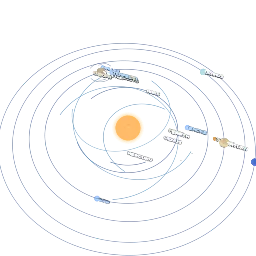
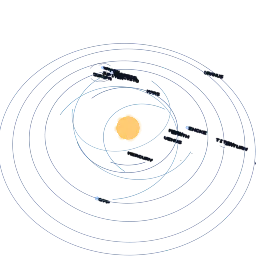
Space r4: sharper (the owner's "Just sharper" on all six clips): denser, finer splats
Claude-Session: https://claude.ai/code/session_01CZZxwLwMDQVfDNLU42cnhN

diff --git a/src/packs/space-r4.js b/src/packs/space-r4.js
@@ -396,7 +396,7 @@ const recipe = {
     // ---- The Sun ----
     const sunR = isTrue ? SUN_RADIUS_KM / AU_KM : READ_SUN;
     const sunPts = [];
-    const ns = 2600;
+    const ns = 9000;
     const g = Math.PI * (3 - Math.sqrt(5));
     for (let i = 0; i < ns; i++) {
       const y = 1 - ((i + 0.5) / ns) * 2;
@@ -404,12 +404,13 @@ const recipe = {
       sunPts.push([Math.cos(g * i) * r, y, Math.sin(g * i) * r]);
     }
     cloud(sunPts, {}, (u, i) => {
-      const f = 0.85 + 0.15 * Math.sin(i * 12.9898);
-      return { p: mul(u, sunR), scales: [sunR * 0.09, sunR * 0.09, sunR * 0.09], color: [1, 0.86 * f, 0.5 * f], opacity: 0.97, params: [0, 0] }; // prettier-ignore
+      const h = Math.sin(i * 12.9898) * 43758.5453;
+      const f = 0.86 + 0.14 * (h - Math.floor(h)); // (granulation, a random brightness)
+      return { p: mul(u, sunR), scales: [sunR * 0.05, sunR * 0.05, sunR * 0.05], color: [1, 0.86 * f, 0.5 * f], opacity: 0.97, params: [0, 0] }; // prettier-ignore
     });
-    const glow = sunPts.filter((_, i) => i % 8 === 0);
+    const glow = sunPts.filter((_, i) => i % 24 === 0);
     cloud(glow, {}, (u) => {
-      const s = sunR * (isTrue ? 4 : 0.3);
+      const s = sunR * (isTrue ? 4 : 0.2);
       return { p: mul(u, sunR * 1.02), scales: [s, s, s], color: [1, 0.72, 0.3], opacity: 0.035, params: [0, 2] }; // prettier-ignore
     });
 
@@ -455,12 +456,12 @@ const recipe = {
       const e1 = unit(cross(pole, Math.abs(pole[0]) < 0.9 ? [1, 0, 0] : [0, 0, 1]));
       const e2 = cross(pole, e1);
       const big = b.kind === 0 && b.km > 20000;
-      const n = b.kind === 0 ? (big ? 1400 : 800) : 260;
+      const n = b.kind === 0 ? (big ? 6000 : 3500) : 1200;
       const pts = ballPts(n);
       const mapId = b.kind === 0 ? look.map : b.moon.map;
       const img = mapId ? DATA.maps.get(mapId) : null;
       const flat = b.kind === 1 && !img ? hex(MOON_COLORS[b.id] || "#a8a29a") : null;
-      const sz = b.r * (3.4 / Math.sqrt(n));
+      const sz = b.r * (2.9 / Math.sqrt(n));
       cloud(pts, {}, (u) => {
         const s = dot(u, pole);
         const lat = Math.asin(Math.max(-1, Math.min(1, s)));
@@ -475,7 +476,7 @@ const recipe = {
         // Saturn's rings: 1.24 to 2.27 planet radii, the Cassini division
         // at about 1.95 to 2.03 (from the C ring to the A ring's edge).
         const rings = [];
-        const nr = 7000;
+        const nr = 20000;
         for (let i = 0; i < nr; i++) {
           const f = (i + 0.5) / nr;
           let rr = 1.24 + 1.03 * Math.sqrt(f * 0.5 + 0.5 * f * f);
@@ -484,7 +485,7 @@ const recipe = {
           const a = i * g;
           rings.push({ rr, a });
         }
-        const rsz = b.r * 0.034;
+        const rsz = b.r * 0.02;
         cloud(rings, {}, ({ rr, a }) => {
           const dir = add(mul(e1, Math.cos(a)), mul(e2, Math.sin(a)));
           const tone = rr < 1.53 ? 0.55 : rr < 1.95 ? 0.95 : 0.8;
@@ -515,7 +516,7 @@ const recipe = {
     // Comets: a nucleus, a coma and a tail the program points away from the Sun.
     bodies.forEach((b, ti) => {
       if (b.kind !== 2) return;
-      const pts = ballPts(60);
+      const pts = ballPts(150);
       cloud(pts, {}, (u) => ({ p: add(b.built, mul(u, b.r)), scales: [b.r * 0.4, b.r * 0.4, b.r * 0.4], color: COMET_LOOK.head, opacity: 0.95, kind: "token", params: [ti, 0] })); // prettier-ignore
       const comaR = isTrue ? 0.02 : 0.03;
       cloud(ballPts(90), {}, (u, i) => {
@@ -523,15 +524,15 @@ const recipe = {
         return { p: add(b.built, mul(u, comaR * f)), scales: [comaR * 0.5, comaR * 0.5, comaR * 0.5], color: COMET_LOOK.coma, opacity: 0.12, kind: "token", params: [ti, 2] }; // prettier-ignore
       });
       const tail = [];
-      for (let i = 0; i < 420; i++) {
-        const f = Math.pow((i + 0.5) / 420, 0.8);
+      for (let i = 0; i < 1400; i++) {
+        const f = Math.pow((i + 0.5) / 1400, 0.8);
         const a = i * g;
         const rr = (isTrue ? 0.012 : 0.01) * Math.sqrt(((i * 0.381966) % 1) + 0.05);
         tail.push({ f, off: [Math.cos(a) * rr, Math.sin(a) * rr * 0.7, Math.sin(a * 1.7) * rr] });
       }
       cloud(tail, {}, (e) => {
-        const z = (isTrue ? 0.03 : 0.026) * (0.5 + e.f);
-        return { p: add(b.built, e.off), scales: [z, z, z], color: COMET_LOOK.tail, opacity: 0.45, kind: "token", params: [ti, 1 + Math.min(0.999, e.f)] }; // prettier-ignore
+        const z = (isTrue ? 0.018 : 0.016) * (0.5 + e.f);
+        return { p: add(b.built, e.off), scales: [z, z, z], color: COMET_LOOK.tail, opacity: 0.3, kind: "token", params: [ti, 1 + Math.min(0.999, e.f)] }; // prettier-ignore
       });
     });
 
@@ -584,7 +585,9 @@ const recipe = {
       // camera (NAME_LIFT), so the sort draws them over their shadow; the
       // program takes the lift off again.
       cloud(dots, { fit: false }, (dd) => ({ p: add(b.built, [dd[0] + px * 0.4, dd[1] - px * 0.4, 0]), scales: [px * 0.85, px * 0.85, px * 0.85], color: [0.05, 0.07, 0.12], opacity: 0.9, kind: "token", params: [ti, 3] })); // prettier-ignore
-      cloud(dots, { fit: false }, (dd) => ({ p: add(b.built, add([dd[0], dd[1], 0], mul(NAME_LIFT, 1 / S))), scales: [px * 0.58, px * 0.58, px * 0.58], color: shade, opacity: 0.97, kind: "token", params: [ti, 3.25] })); // prettier-ignore
+      // (Each letter dot is four small splats, so the letters' edges stay crisp.)
+      const sub = dots.flatMap((dd) => [-0.25, 0.25].flatMap((ox) => [-0.25, 0.25].map((oy) => [dd[0] + ox * px, dd[1] + oy * px]))); // prettier-ignore
+      cloud(sub, { fit: false }, (dd) => ({ p: add(b.built, add([dd[0], dd[1], 0], mul(NAME_LIFT, 1 / S))), scales: [px * 0.3, px * 0.3, px * 0.3], color: shade, opacity: 0.97, kind: "token", params: [ti, 3.25] })); // prettier-ignore
     });
 
     // The tour: the eight planets, each framed with its moons.

diff --git a/docs/handoff/SpaceR4.md b/docs/handoff/SpaceR4.md
@@ -57,7 +57,10 @@ real orbits"), in a new pack `src/packs/space-r4.js`:
   hta, snda-engine, sky, e5 (all pass). Prettier and US English clean; thumbnail and
   `sp4-solar-orbits-*` screenshots done.
 - Clips: 6 on Effect review page 2 (lane record `SpaceR4`): overview at a year a second, flies to
-  Earth, Jupiter and Saturn, the true scale, Halley in 1986. Waiting on the owner's marks.
+  Earth, Jupiter and Saturn, the true scale, Halley in 1986. The owner marked all six "Just sharper"
+  (October 7, 2026, 21:18 UTC); round 2 (`-r2` cards): about 2.5 times the splats (35k to 103k),
+  finer splats on the Sun, planets, moons, rings and comet tails, letters of four small splats each,
+  less glow round the Sun, and a random (not patterned) granulation on it.
 
 ## Notes
 
